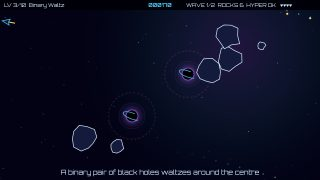
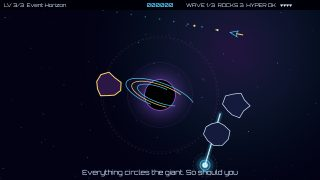
Give Gravity Well three levels and a supernova ending (ci3)
Claude-Session: https://claude.ai/code/session_016R86i3evNakTHXcnyVkEfD

diff --git a/internal/generator/templates/themes/cosmos/game.js b/internal/generator/templates/themes/cosmos/game.js
@@ -37,55 +37,35 @@
     // Saucer shots are slow enough to see coming and sidestep from across
     // the screen; a big saucer reloads slower and aims worse than a sniper.
     var FOE_SHOT = 215, FOE_RELOAD = { big: 2.3, small: 1.8 }, FOE_ERR = { big: 0.36, small: 0.22 };
-    // Four ships: the late levels pile saucers, beams and moving wells on
+    // Four ships: the later levels pile saucers, beams and moving wells on
     // top of the rocks, and one stray shot should not decide a run.
     var LIVES = 4;
     var ROCK_R = [0, 12, 22, 38], ROCK_PTS = [0, 100, 50, 20];
     var CORE_R = { star: 20, hole: 18, pulsar: 15, giant: 46 };
     var C = { bg: '#020214', gold: '#ffd166', purple: '#9b5de5', blue: '#4cc9f0', fg: '#d4e8ff', red: '#ff5d73', dim: '#6f7fa8' };
     var WELL_COLOR = { star: C.gold, hole: C.purple, pulsar: C.blue, giant: C.purple };
-    var PHONE_HINTS = ['Thrust away from stars; shots curve', 'Two suns slingshot rocks',
-        'Keep clear of both moving holes', 'Red saucers fire curved shots', 'Keep moving between the three cores',
-        'Purple rocks need two hits; gold means one', 'Dodge the sweeping blue beam',
-        'Small red saucers are snipers', 'Watch the moving hole and blue beam', 'Orbit the giant; avoid its core'];
+    var PHONE_HINTS = ['Thrust away from stars; shots curve', 'Two holes waltz; red saucers fire back',
+        'Orbit the giant; dodge the blue beam'];
 
-    // One entry per level. `rocks` lists the big rocks of each wave (the next
-    // wave warps in when the last rock of the current one is gone) and `iron`
-    // how many of each wave are iron. A well may orbit (cx, cy) at radius
-    // `or` with angular speed `ow`, drift (dvx, dvy) or sweep a beam of length
-    // `beam` at `bw` rad/s. `saucer` is the seconds between saucer visits and
-    // `sniper` the share of them that are small sharpshooters; `swirl` puts
-    // every rock on a circular orbit around the first well. Spawn
-    // points are deliberately off every axis of symmetry, so a ship left
-    // alone always falls into something, and out of reach of every beam.
+    // One entry per level: a lone star to learn the pull, a waltzing pair of
+    // black holes with saucers and iron rocks, and the finale around a giant
+    // hole with an orbiting pulsar. `rocks` lists the big rocks of each wave
+    // (the next wave warps in when the last rock of the current one is gone)
+    // and `iron` how many of each wave are iron. A well may orbit (cx, cy) at
+    // radius `or` with angular speed `ow` or sweep a beam of length `beam` at
+    // `bw` rad/s. `saucer` is the seconds between saucer visits and `sniper`
+    // the share of them that are small sharpshooters; `swirl` puts every rock
+    // on a circular orbit around the first well. Spawn points are
+    // deliberately off every axis of symmetry, so a ship left alone always
+    // falls into something, and out of reach of every beam.
     var LEVELS = [
-        { rocks: [4, 3], spawns: [[150, 430], [810, 120]], hint: 'Stars pull on everything, even your shots. Thrust to stay out',
+        { rocks: [3, 3], spawns: [[150, 430], [810, 120]], hint: 'Stars pull on everything, even your shots. Thrust to stay out',
             wells: [{ kind: 'star', cx: 480, cy: 285, gm: 0.5e6 }] },
-        { rocks: [4, 4], spawns: [[130, 440], [830, 110]], hint: 'Two suns: rocks slingshot from one to the other',
-            wells: [{ kind: 'star', cx: 270, cy: 190, gm: 0.8e6 }, { kind: 'star', cx: 690, cy: 380, gm: 0.8e6 }] },
-        { rocks: [5, 4], spawns: [[120, 440], [840, 100]], hint: 'A binary pair of black holes waltzes around the centre',
+        { rocks: [4, 4], iron: 1, saucer: 14, spawns: [[120, 440], [840, 100]],
+            hint: 'Two black holes waltz. Saucers ignore gravity, their shots do not',
             wells: [{ kind: 'hole', cx: 480, cy: 285, gm: 0.75e6, or: 105, ow: 0.5 },
                 { kind: 'hole', cx: 480, cy: 285, gm: 0.75e6, or: 105, ow: 0.5, ph: Math.PI }] },
-        { rocks: [5, 4], saucer: 13, spawns: [[140, 440], [820, 110]], hint: 'Saucers ignore gravity. Their shots do not',
-            wells: [{ kind: 'hole', cx: 480, cy: 285, gm: 1.3e6 }] },
-        { rocks: [5, 4], saucer: 12, spawns: [[100, 120], [860, 150]], hint: 'Three bodies, no stable orbit anywhere',
-            wells: [{ kind: 'hole', cx: 480, cy: 160, gm: 1.0e6 }, { kind: 'star', cx: 250, cy: 400, gm: 0.7e6 },
-                { kind: 'star', cx: 710, cy: 400, gm: 0.7e6 }] },
-        { rocks: [4, 4], iron: 1, saucer: 12, spawns: [[560, 90], [540, 480]], hint: 'Iron rocks (purple) take two hits each',
-            wells: [{ kind: 'hole', cx: 300, cy: 285, gm: 0.6e6, or: 75, ow: 0.4 },
-                { kind: 'hole', cx: 300, cy: 285, gm: 0.6e6, or: 75, ow: 0.4, ph: Math.PI },
-                { kind: 'star', cx: 760, cy: 285, gm: 0.8e6 }] },
-        { rocks: [5, 5], iron: 1, saucer: 13, spawns: [[90, 440], [870, 110]], hint: 'The pulsar beam kills: stay out of reach or slip in behind it',
-            wells: [{ kind: 'pulsar', cx: 480, cy: 285, gm: 0.9e6, beam: 290, bw: 0.65 }] },
-        { rocks: [4, 4], iron: 1, saucer: 15, sniper: 0.4, spawns: [[490, 80], [510, 490]], hint: 'Small saucers are snipers',
-            wells: [{ kind: 'pulsar', cx: 250, cy: 285, gm: 0.8e6, beam: 200, bw: 0.7 },
-                { kind: 'hole', cx: 720, cy: 285, gm: 0.55e6, or: 70, ow: -0.5 },
-                { kind: 'hole', cx: 720, cy: 285, gm: 0.55e6, or: 70, ow: -0.5, ph: Math.PI }] },
-        { rocks: [4, 4, 3], iron: 1, saucer: 13, maxFoes: 2, spawns: [[100, 450], [860, 100], [300, 50]], hint: 'A rogue black hole is drifting through',
-            wells: [{ kind: 'pulsar', cx: 480, cy: 285, gm: 0.8e6, beam: 230, bw: -0.8 },
-                { kind: 'hole', cx: 150, cy: 150, gm: 0.6e6, dvx: 26, dvy: 16 },
-                { kind: 'star', cx: 800, cy: 440, gm: 0.6e6 }] },
-        { rocks: [4, 4, 4], iron: 1, saucer: 10, sniper: 0.6, maxFoes: 2, swirl: true,
+        { rocks: [3, 4, 4], iron: 1, saucer: 14, sniper: 0.3, swirl: true,
             spawns: [[70, 80], [890, 80], [70, 490], [890, 490]], hint: 'Everything circles the giant. So should you',
             wells: [{ kind: 'giant', cx: 480, cy: 285, gm: 4.5e6 },
                 { kind: 'pulsar', cx: 480, cy: 285, gm: 0.12e6, or: 250, ow: 0.2, beam: 160, bw: 1.0 }] }
@@ -143,19 +123,19 @@
     // Level setup
     // ------------------------------------------------------------------
 
-    // Sets a well's position and its velocity (orbit plus drift), which rocks
-    // need to bounce off a moving core correctly.
+    // Sets a well's position and its orbital velocity, which rocks need to
+    // bounce off a moving core correctly.
     function placeWell(w) {
         var c = Math.cos(w.ph), sn = Math.sin(w.ph);
         w.x = w.cx + c * w.or; w.y = w.cy + sn * w.or;
-        w.vx = w.dvx - sn * w.or * w.ow; w.vy = w.dvy + c * w.or * w.ow;
+        w.vx = -sn * w.or * w.ow; w.vy = c * w.or * w.ow;
     }
 
     function makeWell(d) {
         var w = {
             kind: d.kind, gm: d.gm, r: CORE_R[d.kind],
             cx: d.cx, cy: d.cy, or: d.or || 0, ow: d.ow || 0, ph: d.ph || 0,
-            dvx: d.dvx || 0, dvy: d.dvy || 0, beam: d.beam || 0, bw: d.bw || 0, ba: 0,
+            beam: d.beam || 0, bw: d.bw || 0, ba: 0,
             x: 0, y: 0, vx: 0, vy: 0
         };
         placeWell(w);
@@ -273,7 +253,7 @@
             time: 0, touch: G.isTouch(), hint: L.hint, wells: L.wells.map(makeWell), spawns: L.spawns,
             rocks: [], shots: [], foes: [], foeShots: [], stars: makeStars(rnd),
             waves: L.rocks, wave: 0, iron: L.iron || 0, swirl: !!L.swirl, banner: 0,
-            saucerEvery: L.saucer || 0, saucerT: (L.saucer || 0) * 0.6, sniper: L.sniper || 0, maxFoes: L.maxFoes || 1,
+            saucerEvery: L.saucer || 0, saucerT: (L.saucer || 0) * 0.6, sniper: L.sniper || 0,
             bounties: SAUCER_BOUNTIES,
             cool: 0, hyper: 0, tm: { thrust: 0, warn: 0, hum: 0, pulse: 0 }, ship: null
         };
@@ -294,7 +274,6 @@
 
     function moveWells(s, dt) {
         s.wells.forEach(function (w) {
-            if (w.dvx || w.dvy) { w.cx = wrapX(w.cx + w.dvx * dt); w.cy = wrapY(w.cy + w.dvy * dt); }
             w.ph += w.ow * dt;
             w.ba += w.bw * dt;
             placeWell(w);
@@ -302,7 +281,7 @@
     }
 
     // Rocks survive a core: they ricochet off it elastically, measured in the
-    // core's own frame so an orbiting or drifting well bats them properly. If
+    // core's own frame so an orbiting well bats them properly. If
     // wells ate rocks a level would clear itself while the player kept away.
     // A slow contact is a rock resting on the surface: it is set back on the
     // surface and just stops sinking, silently. A real bounce only turns the
@@ -644,7 +623,8 @@
     function updateFoes(s, dt) {
         if (s.saucerEvery) {
             s.saucerT -= dt;
-            if (s.saucerT <= 0 && s.foes.length < s.maxFoes) { spawnFoe(s); s.saucerT = s.saucerEvery; }
+            // One saucer at a time: the next waits until the sky is clear.
+            if (s.saucerT <= 0 && !s.foes.length) { spawnFoe(s); s.saucerT = s.saucerEvery; }
         }
         s.foes = s.foes.filter(function (f) { return moveFoe(s, f, dt); });
         if (s.foes.length && s.tm.hum <= 0) {
@@ -985,10 +965,72 @@
     }
 
     function hud(s) {
-        if (s.touch) return 'W' + (s.wave + 1) + '/' + s.waves.length + '  ROCKS ' + s.rocks.length +
-            '  HYPER ' + (s.hyper > 0 ? Math.ceil(s.hyper) + 's' : 'OK');
-        var wave = s.waves.length > 1 ? 'WAVE ' + (s.wave + 1) + '/' + s.waves.length + '  ' : '';
-        return wave + 'ROCKS ' + s.rocks.length + '  HYPER ' + (s.hyper > 0 ? Math.ceil(s.hyper) + 's' : 'OK');
+        var wave = (s.touch ? 'W' : 'WAVE ') + (s.wave + 1) + '/' + s.waves.length;
+        return wave + '  ROCKS ' + s.rocks.length + '  HYPER ' + (s.hyper > 0 ? Math.ceil(s.hyper) + 's' : 'OK');
+    }
+
+    // ------------------------------------------------------------------
+    // The ending: the giant's last breath as a supernova, and the new
+    // constellation that its light draws across the sky
+    // ------------------------------------------------------------------
+
+    var NOVA_X = G.W / 2, NOVA_Y = 330;
+
+    // Shock rings race out of the core and a white-gold glare fades into a
+    // steady new star, so the scene keeps moving long after the blast.
+    function drawNova(t, ctx) {
+        var glare = Math.max(0, 1 - t / 2.5);
+        ctx.globalAlpha = 0.35 + 0.5 * glare;
+        drawGlow(ctx, NOVA_X, NOVA_Y, 70 + 160 * glare + 8 * Math.sin(t * 3), glare > 0.2 ? '#fff3c4' : C.gold);
+        ctx.lineWidth = 3;
+        for (var i = 0; i < 4; i++) {
+            var f = (t * 0.45 + i / 4) % 1;
+            ctx.globalAlpha = 0.6 * (1 - f);
+            ctx.strokeStyle = [C.gold, C.blue, C.purple, C.fg][i];
+            circle(ctx, NOVA_X, NOVA_Y, 30 + f * 520);
+            ctx.stroke();
+        }
+        ctx.globalAlpha = 1;
+        ctx.fillStyle = '#ffffff';
+        circle(ctx, NOVA_X, NOVA_Y, 9 + 2 * Math.sin(t * 5));
+        ctx.fill();
+    }
+
+    // A dozen stars in the sky's free corners, joined one line at a time.
+    function constellation(e) {
+        if (!e.data.stars) {
+            e.data.stars = [];
+            for (var i = 0; i < 12; i++) {
+                var side = i % 2 ? 1 : -1;
+                e.data.stars.push({ x: NOVA_X + side * (250 + e.rng() * 200), y: 50 + e.rng() * 440, ph: e.rng() * TAU });
+            }
+        }
+        return e.data.stars;
+    }
+
+    function drawConstellation(e, ctx) {
+        var stars = constellation(e), shown = Math.min(stars.length, Math.floor(e.t * 3));
+        ctx.strokeStyle = C.blue;
+        ctx.lineWidth = 1.5;
+        ctx.globalAlpha = 0.55;
+        ctx.beginPath();
+        // Each side is its own figure: a star links to the previous one there.
+        for (var i = 2; i < shown; i++) {
+            ctx.moveTo(stars[i - 2].x, stars[i - 2].y);
+            ctx.lineTo(stars[i].x, stars[i].y);
+        }
+        ctx.stroke();
+        ctx.fillStyle = C.fg;
+        for (i = 0; i < shown; i++) {
+            ctx.globalAlpha = 0.6 + 0.4 * Math.sin(e.t * 4 + stars[i].ph);
+            ctx.fillRect(stars[i].x - 3, stars[i].y - 3, 6, 6);
+        }
+        ctx.globalAlpha = 1;
+    }
+
+    function drawEnding(e, ctx) {
+        drawNova(e.t, ctx);
+        drawConstellation(e, ctx);
     }
 
     G.register('cosmos', {
@@ -1000,8 +1042,7 @@
             'Never touch a core: it swallows ships and shots, but rocks bounce off',
             'The dotted arc shows where your next shot will curve'
         ],
-        levelNames: ['First Light', 'Twin Suns', 'Binary Waltz', 'Visitors', 'Three-Body Problem',
-            'Iron Belt', 'Lighthouse', 'Crossfire', 'Rogue Hole', 'Event Horizon'],
+        levelNames: ['First Light', 'Binary Waltz', 'Event Horizon'],
         colors: { bg: C.bg, fg: C.fg, accent: C.blue, dim: C.dim },
         lives: LIVES,
         // Slow D dorian: long held lead notes stand in for pads over a
@@ -1019,6 +1060,12 @@
         // The stick keeps ↑ so one thumb can turn and thrust together on its
         // upper corners, leaving the other thumb on FIRE; with ↓ unused, the
         // lower half of the stick turns without thrusting.
-        touch: { a: 'FIRE', b: 'HYPER', hide: ['down'] }
+        touch: { a: 'FIRE', b: 'HYPER', hide: ['down'] },
+        ending: {
+            title: 'SUPERNOVA',
+            text: 'The giant burns out, and its light draws new constellations',
+            colors: [C.gold, C.blue, C.purple, C.fg],
+            draw: drawEnding
+        }
     });
 })();

diff --git a/docs/games.md b/docs/games.md
@@ -528,12 +528,18 @@ hazard, and at level 10 an archdemon that needs three strikes from above.
 Organ-like harmonic-minor music, bell sounds.
 
 ### cosmos — Gravity Well (asteroids with gravity)
-`← →` rotate, `↑` thrust, `SPACE` fire, `X` hyperspace (risky random jump).
-Ship, rocks and bullets all feel the pull of black holes and stars, so shots
-curve and rocks slingshot; the screen wraps. Rocks split twice. Destroy every
-rock to clear the level; falling into a well kills. Levels: more wells, a
-binary pair that orbits, saucers that shoot back from level 4, a pulsar that
-sweeps a deadly beam from level 7, level 10 circles a giant hole. Spacey
+`← →` rotate, `↑` thrust, `SPACE` fire, `X` hyperspace (risky random jump
+that keeps the ship's momentum). Ship, rocks and bullets all feel the pull of
+black holes and stars, so shots curve and rocks slingshot; the screen wraps.
+Rocks split twice; iron rocks (purple) take two hits. Destroy every rock of
+every wave to clear the level; falling into a core kills, rocks bounce off.
+Four ships per level. Levels: 1 *First Light*, one star and two small waves
+to learn the pull; 2 *Binary Waltz*, a pair of black holes orbiting each
+other, iron rocks and saucers that shoot curving shots back; 3 *Event
+Horizon*, the gravity finale: three waves on circular orbits around a giant
+hole, with an orbiting pulsar that sweeps a deadly beam and sniper saucers.
+The ending is a supernova: the giant flares out in shock rings while a new
+constellation is drawn star by star, under gold and blue fireworks. Spacey
 dorian pads and arps.
 
 ### dos — DIGGER.EXE (CGA tunnel digger)
